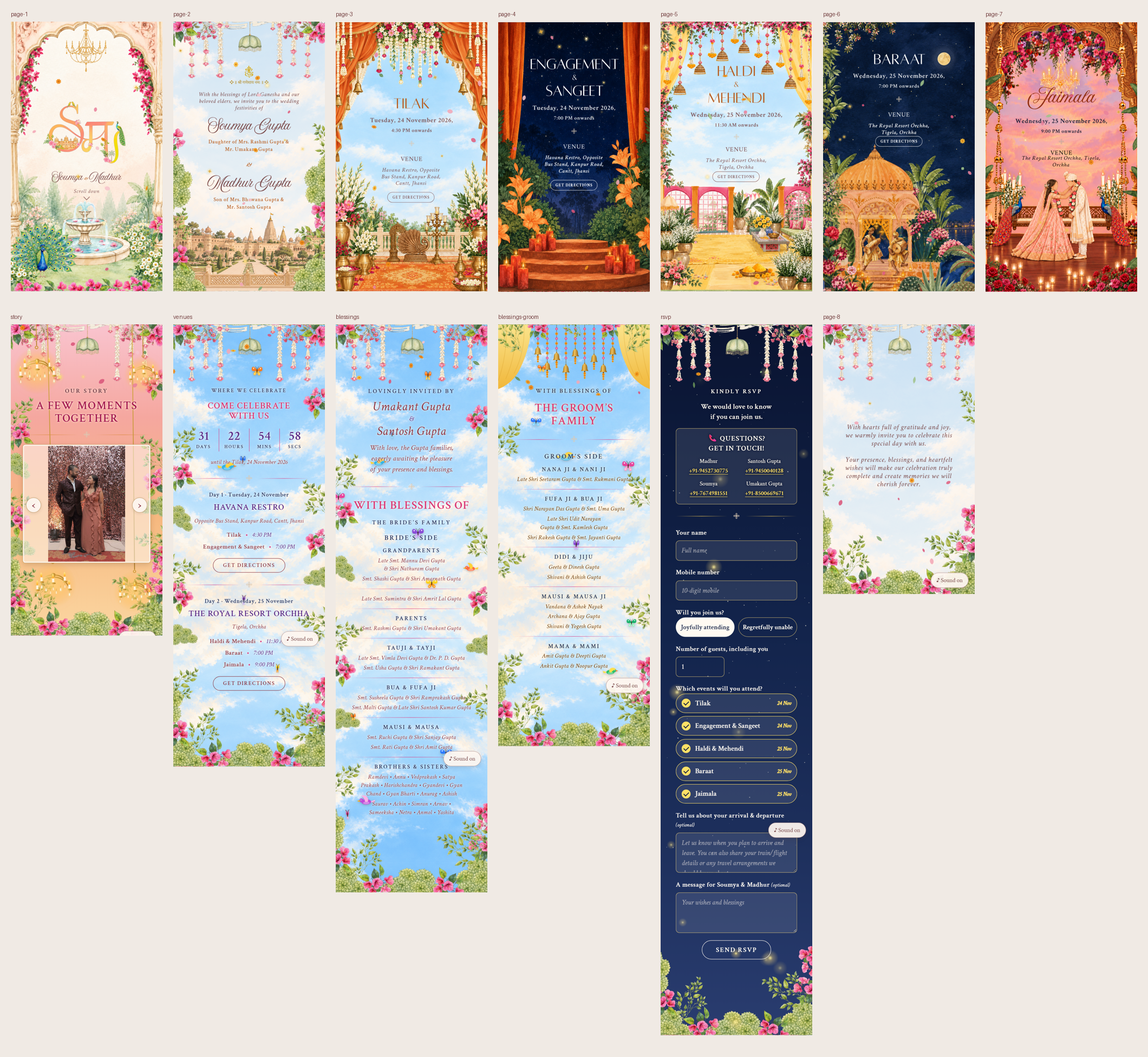
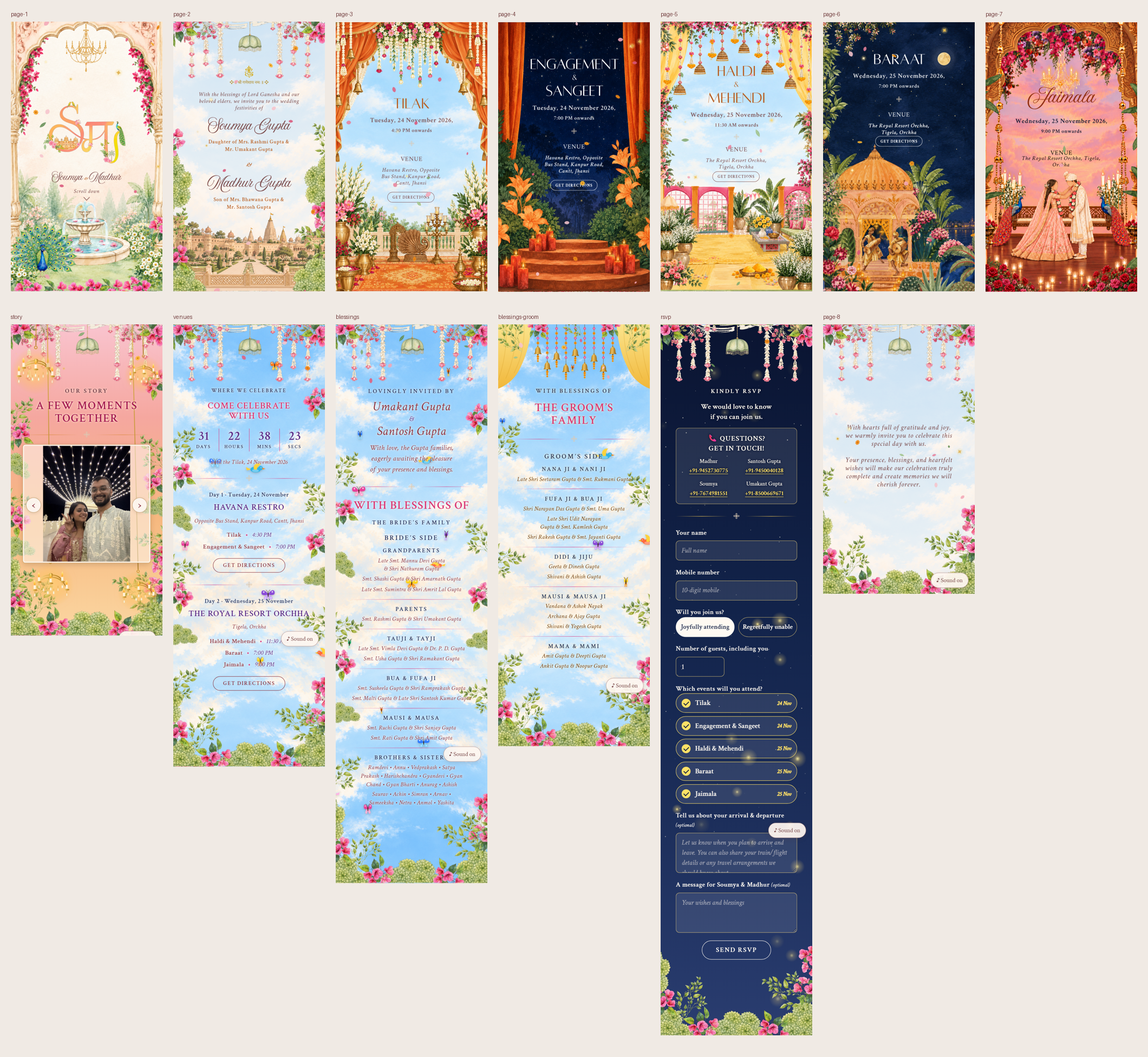
Bride's side: no divider or extra space between the grandparents and the Sumintra line

diff --git a/Website/index.html b/Website/index.html
@@ -327,6 +327,7 @@ html.locked { overflow: hidden; }
 #venues .addr { font-size: 4cqw; }
 #venues .events .n, #venues .events .t { font-size: 4.1cqw; }
 #venues .btn { font-size: 3.6cqw; padding: 2.4cqw 6.4cqw; }
+.web .rel.joined { border-bottom: 0; padding-bottom: 0; border-image: none; margin-bottom: -2.4cqw; }
 [hidden] { display: none !important; }
 </style>
 </head>
@@ -491,7 +492,7 @@ html.locked { overflow: hidden; }
   <div class="divider" aria-hidden="true"><span></span><img src="images/img-10-251x251.png" alt=""><span></span></div>
   <h2 id="bless-h">With Blessings Of</h2>
   <p class="label">The Bride’s Family</p>
-  <div class="sides"><div class="side bride"><h3 class="band">Bride’s Side</h3><dl><div class="rel"><dt>Grandparents</dt><dd>Late Smt. Mannu Devi Gupta &amp; Shri Nathuram Gupta</dd><dd>Smt. Shashi Gupta &amp; Shri Amarnath Gupta</dd></div><div class="rel"><dd>Late Smt. Sumintra &amp; Shri Amrit Lal Gupta</dd></div><div class="rel"><dt>Parents</dt><dd>Smt. Rashmi Gupta &amp; Shri Umakant Gupta</dd></div><div class="rel"><dt>Tauji &amp; Tayji</dt><dd>Late Smt. Vimla Devi Gupta &amp; Dr. P. D. Gupta</dd><dd>Smt. Usha Gupta &amp; Shri Ramakant Gupta</dd></div><div class="rel"><dt>Bua &amp; Fufa Ji</dt><dd>Smt. Susheela Gupta &amp; Shri Ramprakash Gupta</dd><dd>Smt. Malti Gupta &amp; Late Shri Santosh Kumar Gupta</dd></div><div class="rel"><dt>Mausi &amp; Mausa</dt><dd>Smt. Ruchi Gupta &amp; Shri Sanjay Gupta</dd><dd>Smt. Rati Gupta &amp; Shri Amit Gupta</dd></div><div class="rel"><dt>Brothers &amp; Sisters</dt><dd>Ramdevi • Annu • Vedprakash • Satya Prakash • Harishchandra • Gyandevi • Gyan Chand • Gyan Bharti • Anurag • Ashish</dd><dd>Saurav • Achin • Simran • Arnav • Sameeksha • Netra • Anmol • Yashita</dd></div></dl></div></div>
+  <div class="sides"><div class="side bride"><h3 class="band">Bride’s Side</h3><dl><div class="rel joined"><dt>Grandparents</dt><dd>Late Smt. Mannu Devi Gupta &amp; Shri Nathuram Gupta</dd><dd>Smt. Shashi Gupta &amp; Shri Amarnath Gupta</dd></div><div class="rel"><dd>Late Smt. Sumintra &amp; Shri Amrit Lal Gupta</dd></div><div class="rel"><dt>Parents</dt><dd>Smt. Rashmi Gupta &amp; Shri Umakant Gupta</dd></div><div class="rel"><dt>Tauji &amp; Tayji</dt><dd>Late Smt. Vimla Devi Gupta &amp; Dr. P. D. Gupta</dd><dd>Smt. Usha Gupta &amp; Shri Ramakant Gupta</dd></div><div class="rel"><dt>Bua &amp; Fufa Ji</dt><dd>Smt. Susheela Gupta &amp; Shri Ramprakash Gupta</dd><dd>Smt. Malti Gupta &amp; Late Shri Santosh Kumar Gupta</dd></div><div class="rel"><dt>Mausi &amp; Mausa</dt><dd>Smt. Ruchi Gupta &amp; Shri Sanjay Gupta</dd><dd>Smt. Rati Gupta &amp; Shri Amit Gupta</dd></div><div class="rel"><dt>Brothers &amp; Sisters</dt><dd>Ramdevi • Annu • Vedprakash • Satya Prakash • Harishchandra • Gyandevi • Gyan Chand • Gyan Bharti • Anurag • Ashish</dd><dd>Saurav • Achin • Simran • Arnav • Sameeksha • Netra • Anmol • Yashita</dd></div></dl></div></div>
 </div></div></section>
 <section class="web theme-haldi" id="blessings-groom" aria-labelledby="bless-g-h"><canvas class="petals" data-n="8" aria-hidden="true"></canvas><div class="col"><div class="sky" aria-hidden="true"><i></i><i></i><i></i><i></i></div><svg class="head" viewBox="0 0 810 380" aria-hidden="true"><defs><linearGradient id="cu" x1="0" y1="0" x2="0" y2="1"><stop offset="0" stop-color="#fbe48c"/><stop offset="1" stop-color="#f1b73a"/></linearGradient><linearGradient id="bg" x1="0" x2="1"><stop offset="0" stop-color="#a8721a"/><stop offset=".4" stop-color="#f0c15a"/><stop offset="1" stop-color="#8a5a14"/></linearGradient></defs><g id="curl"><path d="M0 0 H178 C172 92 150 168 118 232 C96 282 56 322 0 344Z" fill="url(#cu)"/><path d="M44 0 C46 100 36 200 0 300 M92 0 C96 100 84 190 40 290 M138 0 C142 96 126 180 84 262" fill="none" stroke="#c98a12" stroke-width="2" opacity=".35"/></g><use href="#curl" transform="translate(810 0) scale(-1 1)"/><line x1="212" y1="0" x2="212" y2="150" stroke="#7a4d10" stroke-width="1.6"/><circle cx="212" cy="22" r="7" fill="#e8508a"/><circle cx="212" cy="22" r="3" fill="#f7b6cc"/><circle cx="212" cy="48" r="7.5" fill="#f59a1b"/><circle cx="212" cy="48" r="3" fill="#c76a06"/><circle cx="212" cy="74" r="7" fill="#e8508a"/><circle cx="212" cy="74" r="3" fill="#f7b6cc"/><circle cx="212" cy="100" r="7.5" fill="#f59a1b"/><circle cx="212" cy="100" r="3" fill="#c76a06"/><path d="M197 150 C197 128 204 120 212 120 C220 120 227 128 227 150 L232 159 H192Z" fill="url(#bg)"/><path d="M203 126 Q201 142 200 156 M221 126 Q223 142 224 156" fill="none" stroke="#7a4d10" stroke-width="1.4" opacity=".6"/><circle cx="212" cy="118" r="3.4" fill="#b9801f"/><circle cx="212" cy="162" r="3.6" fill="#7a4d10"/><circle cx="212" cy="172" r="7" fill="#f59a1b"/><circle cx="212" cy="172" r="2.6" fill="#c76a06"/><circle cx="212" cy="184" r="6" fill="#f59a1b"/><circle cx="212" cy="184" r="2.1" fill="#c76a06"/><circle cx="212" cy="196" r="5" fill="#f59a1b"/><circle cx="212" cy="196" r="1.6" fill="#c76a06"/><line x1="262" y1="0" x2="262" y2="232" stroke="#7a4d10" stroke-width="1.6"/><circle cx="262" cy="22" r="7" fill="#e8508a"/><circle cx="262" cy="22" r="3" fill="#f7b6cc"/><circle cx="262" cy="48" r="7.5" fill="#f59a1b"/><circle cx="262" cy="48" r="3" fill="#c76a06"/><circle cx="262" cy="74" r="7" fill="#e8508a"/><circle cx="262" cy="74" r="3" fill="#f7b6cc"/><circle cx="262" cy="100" r="7.5" fill="#f59a1b"/><circle cx="262" cy="100" r="3" fill="#c76a06"/><circle cx="262" cy="126" r="7" fill="#e8508a"/><circle cx="262" cy="126" r="3" fill="#f7b6cc"/><circle cx="262" cy="152" r="7.5" fill="#f59a1b"/><circle cx="262" cy="152" r="3" fill="#c76a06"/><circle cx="262" cy="178" r="7" fill="#e8508a"/><circle cx="262" cy="178" r="3" fill="#f7b6cc"/><path d="M247 232 C247 210 254 202 262 202 C270 202 277 210 277 232 L282 241 H242Z" fill="url(#bg)"/><path d="M253 208 Q251 224 250 238 M271 208 Q273 224 274 238" fill="none" stroke="#7a4d10" stroke-width="1.4" opacity=".6"/><circle cx="262" cy="200" r="3.4" fill="#b9801f"/><circle cx="262" cy="244" r="3.6" fill="#7a4d10"/><circle cx="262" cy="254" r="7" fill="#f59a1b"/><circle cx="262" cy="254" r="2.6" fill="#c76a06"/><circle cx="262" cy="266" r="6" fill="#f59a1b"/><circle cx="262" cy="266" r="2.1" fill="#c76a06"/><circle cx="262" cy="278" r="5" fill="#f59a1b"/><circle cx="262" cy="278" r="1.6" fill="#c76a06"/><line x1="312" y1="0" x2="312" y2="180" stroke="#7a4d10" stroke-width="1.6"/><circle cx="312" cy="22" r="7" fill="#e8508a"/><circle cx="312" cy="22" r="3" fill="#f7b6cc"/><circle cx="312" cy="48" r="7.5" fill="#f59a1b"/><circle cx="312" cy="48" r="3" fill="#c76a06"/><circle cx="312" cy="74" r="7" fill="#e8508a"/><circle cx="312" cy="74" r="3" fill="#f7b6cc"/><circle cx="312" cy="100" r="7.5" fill="#f59a1b"/><circle cx="312" cy="100" r="3" fill="#c76a06"/><circle cx="312" cy="126" r="7" fill="#e8508a"/><circle cx="312" cy="126" r="3" fill="#f7b6cc"/><path d="M297 180 C297 158 304 150 312 150 C320 150 327 158 327 180 L332 189 H292Z" fill="url(#bg)"/><path d="M303 156 Q301 172 300 186 M321 156 Q323 172 324 186" fill="none" stroke="#7a4d10" stroke-width="1.4" opacity=".6"/><circle cx="312" cy="148" r="3.4" fill="#b9801f"/><circle cx="312" cy="192" r="3.6" fill="#7a4d10"/><circle cx="312" cy="202" r="7" fill="#f59a1b"/><circle cx="312" cy="202" r="2.6" fill="#c76a06"/><circle cx="312" cy="214" r="6" fill="#f59a1b"/><circle cx="312" cy="214" r="2.1" fill="#c76a06"/><circle cx="312" cy="226" r="5" fill="#f59a1b"/><circle cx="312" cy="226" r="1.6" fill="#c76a06"/><line x1="362" y1="0" x2="362" y2="246" stroke="#7a4d10" stroke-width="1.6"/><circle cx="362" cy="22" r="7" fill="#e8508a"/><circle cx="362" cy="22" r="3" fill="#f7b6cc"/><circle cx="362" cy="48" r="7.5" fill="#f59a1b"/><circle cx="362" cy="48" r="3" fill="#c76a06"/><circle cx="362" cy="74" r="7" fill="#e8508a"/><circle cx="362" cy="74" r="3" fill="#f7b6cc"/><circle cx="362" cy="100" r="7.5" fill="#f59a1b"/><circle cx="362" cy="100" r="3" fill="#c76a06"/><circle cx="362" cy="126" r="7" fill="#e8508a"/><circle cx="362" cy="126" r="3" fill="#f7b6cc"/><circle cx="362" cy="152" r="7.5" fill="#f59a1b"/><circle cx="362" cy="152" r="3" fill="#c76a06"/><circle cx="362" cy="178" r="7" fill="#e8508a"/><circle cx="362" cy="178" r="3" fill="#f7b6cc"/><path d="M347 246 C347 224 354 216 362 216 C370 216 377 224 377 246 L382 255 H342Z" fill="url(#bg)"/><path d="M353 222 Q351 238 350 252 M371 222 Q373 238 374 252" fill="none" stroke="#7a4d10" stroke-width="1.4" opacity=".6"/><circle cx="362" cy="214" r="3.4" fill="#b9801f"/><circle cx="362" cy="258" r="3.6" fill="#7a4d10"/><circle cx="362" cy="268" r="7" fill="#f59a1b"/><circle cx="362" cy="268" r="2.6" fill="#c76a06"/><circle cx="362" cy="280" r="6" fill="#f59a1b"/><circle cx="362" cy="280" r="2.1" fill="#c76a06"/><circle cx="362" cy="292" r="5" fill="#f59a1b"/><circle cx="362" cy="292" r="1.6" fill="#c76a06"/><line x1="412" y1="0" x2="412" y2="160" stroke="#7a4d10" stroke-width="1.6"/><circle cx="412" cy="22" r="7" fill="#e8508a"/><circle cx="412" cy="22" r="3" fill="#f7b6cc"/><circle cx="412" cy="48" r="7.5" fill="#f59a1b"/><circle cx="412" cy="48" r="3" fill="#c76a06"/><circle cx="412" cy="74" r="7" fill="#e8508a"/><circle cx="412" cy="74" r="3" fill="#f7b6cc"/><circle cx="412" cy="100" r="7.5" fill="#f59a1b"/><circle cx="412" cy="100" r="3" fill="#c76a06"/><path d="M397 160 C397 138 404 130 412 130 C420 130 427 138 427 160 L432 169 H392Z" fill="url(#bg)"/><path d="M403 136 Q401 152 400 166 M421 136 Q423 152 424 166" fill="none" stroke="#7a4d10" stroke-width="1.4" opacity=".6"/><circle cx="412" cy="128" r="3.4" fill="#b9801f"/><circle cx="412" cy="172" r="3.6" fill="#7a4d10"/><circle cx="412" cy="182" r="7" fill="#f59a1b"/><circle cx="412" cy="182" r="2.6" fill="#c76a06"/><circle cx="412" cy="194" r="6" fill="#f59a1b"/><circle cx="412" cy="194" r="2.1" fill="#c76a06"/><circle cx="412" cy="206" r="5" fill="#f59a1b"/><circle cx="412" cy="206" r="1.6" fill="#c76a06"/><line x1="462" y1="0" x2="462" y2="238" stroke="#7a4d10" stroke-width="1.6"/><circle cx="462" cy="22" r="7" fill="#e8508a"/><circle cx="462" cy="22" r="3" fill="#f7b6cc"/><circle cx="462" cy="48" r="7.5" fill="#f59a1b"/><circle cx="462" cy="48" r="3" fill="#c76a06"/><circle cx="462" cy="74" r="7" fill="#e8508a"/><circle cx="462" cy="74" r="3" fill="#f7b6cc"/><circle cx="462" cy="100" r="7.5" fill="#f59a1b"/><circle cx="462" cy="100" r="3" fill="#c76a06"/><circle cx="462" cy="126" r="7" fill="#e8508a"/><circle cx="462" cy="126" r="3" fill="#f7b6cc"/><circle cx="462" cy="152" r="7.5" fill="#f59a1b"/><circle cx="462" cy="152" r="3" fill="#c76a06"/><circle cx="462" cy="178" r="7" fill="#e8508a"/><circle cx="462" cy="178" r="3" fill="#f7b6cc"/><path d="M447 238 C447 216 454 208 462 208 C470 208 477 216 477 238 L482 247 H442Z" fill="url(#bg)"/><path d="M453 214 Q451 230 450 244 M471 214 Q473 230 474 244" fill="none" stroke="#7a4d10" stroke-width="1.4" opacity=".6"/><circle cx="462" cy="206" r="3.4" fill="#b9801f"/><circle cx="462" cy="250" r="3.6" fill="#7a4d10"/><circle cx="462" cy="260" r="7" fill="#f59a1b"/><circle cx="462" cy="260" r="2.6" fill="#c76a06"/><circle cx="462" cy="272" r="6" fill="#f59a1b"/><circle cx="462" cy="272" r="2.1" fill="#c76a06"/><circle cx="462" cy="284" r="5" fill="#f59a1b"/><circle cx="462" cy="284" r="1.6" fill="#c76a06"/><line x1="512" y1="0" x2="512" y2="190" stroke="#7a4d10" stroke-width="1.6"/><circle cx="512" cy="22" r="7" fill="#e8508a"/><circle cx="512" cy="22" r="3" fill="#f7b6cc"/><circle cx="512" cy="48" r="7.5" fill="#f59a1b"/><circle cx="512" cy="48" r="3" fill="#c76a06"/><circle cx="512" cy="74" r="7" fill="#e8508a"/><circle cx="512" cy="74" r="3" fill="#f7b6cc"/><circle cx="512" cy="100" r="7.5" fill="#f59a1b"/><circle cx="512" cy="100" r="3" fill="#c76a06"/><circle cx="512" cy="126" r="7" fill="#e8508a"/><circle cx="512" cy="126" r="3" fill="#f7b6cc"/><path d="M497 190 C497 168 504 160 512 160 C520 160 527 168 527 190 L532 199 H492Z" fill="url(#bg)"/><path d="M503 166 Q501 182 500 196 M521 166 Q523 182 524 196" fill="none" stroke="#7a4d10" stroke-width="1.4" opacity=".6"/><circle cx="512" cy="158" r="3.4" fill="#b9801f"/><circle cx="512" cy="202" r="3.6" fill="#7a4d10"/><circle cx="512" cy="212" r="7" fill="#f59a1b"/><circle cx="512" cy="212" r="2.6" fill="#c76a06"/><circle cx="512" cy="224" r="6" fill="#f59a1b"/><circle cx="512" cy="224" r="2.1" fill="#c76a06"/><circle cx="512" cy="236" r="5" fill="#f59a1b"/><circle cx="512" cy="236" r="1.6" fill="#c76a06"/><line x1="562" y1="0" x2="562" y2="244" stroke="#7a4d10" stroke-width="1.6"/><circle cx="562" cy="22" r="7" fill="#e8508a"/><circle cx="562" cy="22" r="3" fill="#f7b6cc"/><circle cx="562" cy="48" r="7.5" fill="#f59a1b"/><circle cx="562" cy="48" r="3" fill="#c76a06"/><circle cx="562" cy="74" r="7" fill="#e8508a"/><circle cx="562" cy="74" r="3" fill="#f7b6cc"/><circle cx="562" cy="100" r="7.5" fill="#f59a1b"/><circle cx="562" cy="100" r="3" fill="#c76a06"/><circle cx="562" cy="126" r="7" fill="#e8508a"/><circle cx="562" cy="126" r="3" fill="#f7b6cc"/><circle cx="562" cy="152" r="7.5" fill="#f59a1b"/><circle cx="562" cy="152" r="3" fill="#c76a06"/><circle cx="562" cy="178" r="7" fill="#e8508a"/><circle cx="562" cy="178" r="3" fill="#f7b6cc"/><path d="M547 244 C547 222 554 214 562 214 C570 214 577 222 577 244 L582 253 H542Z" fill="url(#bg)"/><path d="M553 220 Q551 236 550 250 M571 220 Q573 236 574 250" fill="none" stroke="#7a4d10" stroke-width="1.4" opacity=".6"/><circle cx="562" cy="212" r="3.4" fill="#b9801f"/><circle cx="562" cy="256" r="3.6" fill="#7a4d10"/><circle cx="562" cy="266" r="7" fill="#f59a1b"/><circle cx="562" cy="266" r="2.6" fill="#c76a06"/><circle cx="562" cy="278" r="6" fill="#f59a1b"/><circle cx="562" cy="278" r="2.1" fill="#c76a06"/><circle cx="562" cy="290" r="5" fill="#f59a1b"/><circle cx="562" cy="290" r="1.6" fill="#c76a06"/><line x1="612" y1="0" x2="612" y2="150" stroke="#7a4d10" stroke-width="1.6"/><circle cx="612" cy="22" r="7" fill="#e8508a"/><circle cx="612" cy="22" r="3" fill="#f7b6cc"/><circle cx="612" cy="48" r="7.5" fill="#f59a1b"/><circle cx="612" cy="48" r="3" fill="#c76a06"/><circle cx="612" cy="74" r="7" fill="#e8508a"/><circle cx="612" cy="74" r="3" fill="#f7b6cc"/><circle cx="612" cy="100" r="7.5" fill="#f59a1b"/><circle cx="612" cy="100" r="3" fill="#c76a06"/><path d="M597 150 C597 128 604 120 612 120 C620 120 627 128 627 150 L632 159 H592Z" fill="url(#bg)"/><path d="M603 126 Q601 142 600 156 M621 126 Q623 142 624 156" fill="none" stroke="#7a4d10" stroke-width="1.4" opacity=".6"/><circle cx="612" cy="118" r="3.4" fill="#b9801f"/><circle cx="612" cy="162" r="3.6" fill="#7a4d10"/><circle cx="612" cy="172" r="7" fill="#f59a1b"/><circle cx="612" cy="172" r="2.6" fill="#c76a06"/><circle cx="612" cy="184" r="6" fill="#f59a1b"/><circle cx="612" cy="184" r="2.1" fill="#c76a06"/><circle cx="612" cy="196" r="5" fill="#f59a1b"/><circle cx="612" cy="196" r="1.6" fill="#c76a06"/><image href="images/img-06-442x570.png" width="1" height="1" preserveAspectRatio="none" transform="matrix(170,0,0,219,-30,-64)"/><image href="images/img-06-442x570.png" width="1" height="1" preserveAspectRatio="none" transform="matrix(-170,0,0,219,840,-64)"/><image href="images/img-06-442x570.png" width="1" height="1" preserveAspectRatio="none" transform="matrix(130,0,0,168,330,-92)"/><image href="images/img-07-413x413.png" width="1" height="1" preserveAspectRatio="none" transform="matrix(120,0,0,120,150,-36)"/><image href="images/img-07-413x413.png" width="1" height="1" preserveAspectRatio="none" transform="matrix(-120,0,0,120,660,-40)"/></svg><svg class="foot" viewBox="0 780 810 660" aria-hidden="true"><image href="images/img-05-739x532.png" width="1" height="1" preserveAspectRatio="none" transform="matrix(-178.3732,395.1016,-284.3638,-128.3793,156.9829,997.759)"/><image href="images/img-05-739x532.png" width="1" height="1" preserveAspectRatio="none" transform="matrix(394.2313,-180.2884,129.7578,283.7374,523.7259,1327.6056)"/><image href="images/img-05-739x532.png" width="1" height="1" preserveAspectRatio="none" transform="matrix(406.8389,149.681,-107.7289,292.8114,-122.3521,1194.4316)"/><image href="images/img-06-442x570.png" width="1" height="1" preserveAspectRatio="none" transform="matrix(175.0465,-137.7545,177.643,225.7333,502.927,1167.0293)"/><image href="images/img-07-413x413.png" width="1" height="1" preserveAspectRatio="none" transform="matrix(-81.6998,-164.588,164.588,-81.6998,779.6677,1162.1674)"/><image href="images/img-07-413x413.png" width="1" height="1" preserveAspectRatio="none" transform="matrix(176.4401,-51.3122,51.3122,176.4401,679.4113,1139.4545)"/><image href="images/img-07-413x413.png" width="1" height="1" preserveAspectRatio="none" transform="matrix(179.3428,-40.0028,40.0028,179.3428,-109.5525,1200.7655)"/><image href="images/img-06-442x570.png" width="1" height="1" preserveAspectRatio="none" transform="matrix(112.0505,139.9115,-179.719,143.931,190.9764,1095.7351)"/><image href="images/img-05-739x532.png" width="1" height="1" preserveAspectRatio="none" transform="matrix(406.8389,149.681,-107.7289,292.8114,292.5477,1210.9304)"/><image href="images/img-07-413x413.png" width="1" height="1" preserveAspectRatio="none" transform="matrix(-153.8557,100.4614,-100.4614,-153.8557,350.4998,1406.5757)"/><image href="images/img-07-413x413.png" width="1" height="1" preserveAspectRatio="none" transform="matrix(-180.976,-31.8084,31.8084,-180.976,683.6942,1506.9229)"/></svg><img class="vine va" src="images/img-06-442x570.png" alt="" aria-hidden="true"><img class="vine vb" src="images/img-06-442x570.png" alt="" aria-hidden="true"><img class="vine vc" src="images/img-06-442x570.png" alt="" aria-hidden="true"><img class="vine vd" src="images/img-06-442x570.png" alt="" aria-hidden="true"><img class="vine ve" src="images/img-06-442x570.png" alt="" aria-hidden="true"><img class="vine vf" src="images/img-06-442x570.png" alt="" aria-hidden="true"><div class="crit b" style="top:8.4%;--t:34s;--d:-25s;--w:7cqw"><div class="bob" style="--b:2.3s"><svg viewBox="0 0 60 50" style="--f:0.34s" aria-hidden="true"><g class="wl"><path d="M30 24 C14 2 2 8 4 22 C5 30 20 30 30 26Z" fill="#ff7a1a"/><path d="M30 26 C18 30 8 40 16 46 C24 50 30 38 30 28Z" fill="#ffc23a"/><circle cx="13" cy="16" r="3" fill="#fff" opacity=".8"/><circle cx="19" cy="40" r="2.2" fill="#fff" opacity=".8"/></g><g class="wr"><path d="M30 24 C46 2 58 8 56 22 C55 30 40 30 30 26Z" fill="#ff7a1a"/><path d="M30 26 C42 30 52 40 44 46 C36 50 30 38 30 28Z" fill="#ffc23a"/><circle cx="47" cy="16" r="3" fill="#fff" opacity=".8"/><circle cx="41" cy="40" r="2.2" fill="#fff" opacity=".8"/></g><ellipse cx="30" cy="27" rx="1.9" ry="9" fill="#3a2418"/><path d="M29 18 Q26 10 22 8 M31 18 Q34 10 38 8" fill="none" stroke="#3a2418" stroke-width="1.1" stroke-linecap="round"/></svg></div></div><div class="crit b rev" style="top:21.0%;--t:31s;--d:-32s;--w:8cqw"><div class="bob" style="--b:2.3s"><svg viewBox="0 0 60 50" style="--f:0.32s" aria-hidden="true"><g class="wl"><path d="M30 24 C14 2 2 8 4 22 C5 30 20 30 30 26Z" fill="#2f7cff"/><path d="M30 26 C18 30 8 40 16 46 C24 50 30 38 30 28Z" fill="#7fd1ff"/><circle cx="13" cy="16" r="3" fill="#fff" opacity=".8"/><circle cx="19" cy="40" r="2.2" fill="#fff" opacity=".8"/></g><g class="wr"><path d="M30 24 C46 2 58 8 56 22 C55 30 40 30 30 26Z" fill="#2f7cff"/><path d="M30 26 C42 30 52 40 44 46 C36 50 30 38 30 28Z" fill="#7fd1ff"/><circle cx="47" cy="16" r="3" fill="#fff" opacity=".8"/><circle cx="41" cy="40" r="2.2" fill="#fff" opacity=".8"/></g><ellipse cx="30" cy="27" rx="1.9" ry="9" fill="#3a2418"/><path d="M29 18 Q26 10 22 8 M31 18 Q34 10 38 8" fill="none" stroke="#3a2418" stroke-width="1.1" stroke-linecap="round"/></svg></div></div><div class="crit b" style="top:31.1%;--t:32s;--d:-35s;--w:10cqw"><div class="bob" style="--b:2.3s"><svg viewBox="0 0 60 50" style="--f:0.34s" aria-hidden="true"><g class="wl"><path d="M30 24 C14 2 2 8 4 22 C5 30 20 30 30 26Z" fill="#e8429b"/><path d="M30 26 C18 30 8 40 16 46 C24 50 30 38 30 28Z" fill="#ffa6d0"/><circle cx="13" cy="16" r="3" fill="#fff" opacity=".8"/><circle cx="19" cy="40" r="2.2" fill="#fff" opacity=".8"/></g><g class="wr"><path d="M30 24 C46 2 58 8 56 22 C55 30 40 30 30 26Z" fill="#e8429b"/><path d="M30 26 C42 30 52 40 44 46 C36 50 30 38 30 28Z" fill="#ffa6d0"/><circle cx="47" cy="16" r="3" fill="#fff" opacity=".8"/><circle cx="41" cy="40" r="2.2" fill="#fff" opacity=".8"/></g><ellipse cx="30" cy="27" rx="1.9" ry="9" fill="#3a2418"/><path d="M29 18 Q26 10 22 8 M31 18 Q34 10 38 8" fill="none" stroke="#3a2418" stroke-width="1.1" stroke-linecap="round"/></svg></div></div><div class="crit b" style="top:49.8%;--t:48s;--d:-3s;--w:10cqw"><div class="bob" style="--b:2.3s"><svg viewBox="0 0 60 50" style="--f:0.29s" aria-hidden="true"><g class="wl"><path d="M30 24 C14 2 2 8 4 22 C5 30 20 30 30 26Z" fill="#8a4bd8"/><path d="M30 26 C18 30 8 40 16 46 C24 50 30 38 30 28Z" fill="#c9a4ff"/><circle cx="13" cy="16" r="3" fill="#fff" opacity=".8"/><circle cx="19" cy="40" r="2.2" fill="#fff" opacity=".8"/></g><g class="wr"><path d="M30 24 C46 2 58 8 56 22 C55 30 40 30 30 26Z" fill="#8a4bd8"/><path d="M30 26 C42 30 52 40 44 46 C36 50 30 38 30 28Z" fill="#c9a4ff"/><circle cx="47" cy="16" r="3" fill="#fff" opacity=".8"/><circle cx="41" cy="40" r="2.2" fill="#fff" opacity=".8"/></g><ellipse cx="30" cy="27" rx="1.9" ry="9" fill="#3a2418"/><path d="M29 18 Q26 10 22 8 M31 18 Q34 10 38 8" fill="none" stroke="#3a2418" stroke-width="1.1" stroke-linecap="round"/></svg></div></div><div class="crit b rev" style="top:59.2%;--t:34s;--d:-18s;--w:10cqw"><div class="bob" style="--b:2.4s"><svg viewBox="0 0 60 50" style="--f:0.28s" aria-hidden="true"><g class="wl"><path d="M30 24 C14 2 2 8 4 22 C5 30 20 30 30 26Z" fill="#ffd21a"/><path d="M30 26 C18 30 8 40 16 46 C24 50 30 38 30 28Z" fill="#ff9a1a"/><circle cx="13" cy="16" r="3" fill="#fff" opacity=".8"/><circle cx="19" cy="40" r="2.2" fill="#fff" opacity=".8"/></g><g class="wr"><path d="M30 24 C46 2 58 8 56 22 C55 30 40 30 30 26Z" fill="#ffd21a"/><path d="M30 26 C42 30 52 40 44 46 C36 50 30 38 30 28Z" fill="#ff9a1a"/><circle cx="47" cy="16" r="3" fill="#fff" opacity=".8"/><circle cx="41" cy="40" r="2.2" fill="#fff" opacity=".8"/></g><ellipse cx="30" cy="27" rx="1.9" ry="9" fill="#3a2418"/><path d="M29 18 Q26 10 22 8 M31 18 Q34 10 38 8" fill="none" stroke="#3a2418" stroke-width="1.1" stroke-linecap="round"/></svg></div></div><div class="crit b" style="top:69.7%;--t:35s;--d:-6s;--w:8cqw"><div class="bob" style="--b:2.7s"><svg viewBox="0 0 60 50" style="--f:0.34s" aria-hidden="true"><g class="wl"><path d="M30 24 C14 2 2 8 4 22 C5 30 20 30 30 26Z" fill="#17b26a"/><path d="M30 26 C18 30 8 40 16 46 C24 50 30 38 30 28Z" fill="#9cf0c2"/><circle cx="13" cy="16" r="3" fill="#fff" opacity=".8"/><circle cx="19" cy="40" r="2.2" fill="#fff" opacity=".8"/></g><g class="wr"><path d="M30 24 C46 2 58 8 56 22 C55 30 40 30 30 26Z" fill="#17b26a"/><path d="M30 26 C42 30 52 40 44 46 C36 50 30 38 30 28Z" fill="#9cf0c2"/><circle cx="47" cy="16" r="3" fill="#fff" opacity=".8"/><circle cx="41" cy="40" r="2.2" fill="#fff" opacity=".8"/></g><ellipse cx="30" cy="27" rx="1.9" ry="9" fill="#3a2418"/><path d="M29 18 Q26 10 22 8 M31 18 Q34 10 38 8" fill="none" stroke="#3a2418" stroke-width="1.1" stroke-linecap="round"/></svg></div></div><div class="crit b" style="top:80.2%;--t:31s;--d:-39s;--w:8cqw"><div class="bob" style="--b:2.9s"><svg viewBox="0 0 60 50" style="--f:0.33s" aria-hidden="true"><g class="wl"><path d="M30 24 C14 2 2 8 4 22 C5 30 20 30 30 26Z" fill="#ff7a1a"/><path d="M30 26 C18 30 8 40 16 46 C24 50 30 38 30 28Z" fill="#ffc23a"/><circle cx="13" cy="16" r="3" fill="#fff" opacity=".8"/><circle cx="19" cy="40" r="2.2" fill="#fff" opacity=".8"/></g><g class="wr"><path d="M30 24 C46 2 58 8 56 22 C55 30 40 30 30 26Z" fill="#ff7a1a"/><path d="M30 26 C42 30 52 40 44 46 C36 50 30 38 30 28Z" fill="#ffc23a"/><circle cx="47" cy="16" r="3" fill="#fff" opacity=".8"/><circle cx="41" cy="40" r="2.2" fill="#fff" opacity=".8"/></g><ellipse cx="30" cy="27" rx="1.9" ry="9" fill="#3a2418"/><path d="M29 18 Q26 10 22 8 M31 18 Q34 10 38 8" fill="none" stroke="#3a2418" stroke-width="1.1" stroke-linecap="round"/></svg></div></div><div class="crit k" style="top:29.0%;--t:27s;--d:-18s;--w:15cqw"><div class="bob" style="--b:1.9s"><svg viewBox="0 0 80 50" style="--f:0.24s" aria-hidden="true"><path d="M24 28 L4 21 L8 32Z" fill="#ffd23a"/><ellipse cx="38" cy="28" rx="18" ry="10" fill="#2fb4e8"/><ellipse cx="38" cy="32" rx="12" ry="5" fill="#fff" opacity=".35"/><circle cx="56" cy="22" r="7.5" fill="#2fb4e8"/><path d="M62 21 L73 24 L62 27Z" fill="#ff8a1a"/><circle cx="58" cy="20.5" r="1.9" fill="#fff"/><circle cx="58.6" cy="20.5" r=".9" fill="#222"/><path class="bw" d="M32 27 C28 8 46 1 58 8 C48 14 44 22 42 29Z" fill="#ffd23a"/></svg></div></div><div class="crit k rev" style="top:49.3%;--t:23s;--d:-2s;--w:14cqw"><div class="bob" style="--b:2.0s"><svg viewBox="0 0 80 50" style="--f:0.31s" aria-hidden="true"><path d="M24 28 L4 21 L8 32Z" fill="#ffd23a"/><ellipse cx="38" cy="28" rx="18" ry="10" fill="#ff6a3d"/><ellipse cx="38" cy="32" rx="12" ry="5" fill="#fff" opacity=".35"/><circle cx="56" cy="22" r="7.5" fill="#ff6a3d"/><path d="M62 21 L73 24 L62 27Z" fill="#ffb000"/><circle cx="58" cy="20.5" r="1.9" fill="#fff"/><circle cx="58.6" cy="20.5" r=".9" fill="#222"/><path class="bw" d="M32 27 C28 8 46 1 58 8 C48 14 44 22 42 29Z" fill="#ffd23a"/></svg></div></div><div class="crit k" style="top:81.8%;--t:24s;--d:-19s;--w:12cqw"><div class="bob" style="--b:1.7s"><svg viewBox="0 0 80 50" style="--f:0.26s" aria-hidden="true"><path d="M24 28 L4 21 L8 32Z" fill="#ffe04a"/><ellipse cx="38" cy="28" rx="18" ry="10" fill="#2bc16b"/><ellipse cx="38" cy="32" rx="12" ry="5" fill="#fff" opacity=".35"/><circle cx="56" cy="22" r="7.5" fill="#2bc16b"/><path d="M62 21 L73 24 L62 27Z" fill="#ff7a1a"/><circle cx="58" cy="20.5" r="1.9" fill="#fff"/><circle cx="58.6" cy="20.5" r=".9" fill="#222"/><path class="bw" d="M32 27 C28 8 46 1 58 8 C48 14 44 22 42 29Z" fill="#ffe04a"/></svg></div></div><div class="frame">
   <p class="label">With blessings of</p>

diff --git a/Source/pipeline/build.py b/Source/pipeline/build.py
@@ -566,8 +566,9 @@ groom = [("Nana Ji & Nani Ji", ["Late Shri Seetaram Gupta & Smt. Rukmani Gupta"]
          ("Mama & Mami", ["Amit Gupta & Deepti Gupta", "Ankit Gupta & Noopur Gupta"])]
 def side(title, rows, cls):
     out = f'<div class="side {cls}"><h3 class="band">{title}</h3><dl>'
-    for k, vs in rows:
-        out += '<div class="rel">' + (f'<dt>{html.escape(k)}</dt>' if k else '') + "".join(f'<dd>{html.escape(v)}</dd>' for v in vs) + '</div>'
+    for n, (k, vs) in enumerate(rows):
+        joined = n + 1 < len(rows) and not rows[n + 1][0]       # the next line continues this group: no divider between them
+        out += '<div class="rel' + (' joined' if joined else '') + '">' + (f'<dt>{html.escape(k)}</dt>' if k else '') + "".join(f'<dd>{html.escape(v)}</dd>' for v in vs) + '</div>'
     return out + '</dl></div>'
 GUEST_OPTS = "".join(f'<option value="{i}">{i}</option>' for i in range(1, 11))
 def evcheck(i, val, label, date):
@@ -1115,6 +1116,7 @@ html.locked {{ overflow: hidden; }}
 #venues .addr {{ font-size: 4cqw; }}
 #venues .events .n, #venues .events .t {{ font-size: 4.1cqw; }}
 #venues .btn {{ font-size: 3.6cqw; padding: 2.4cqw 6.4cqw; }}
+.web .rel.joined {{ border-bottom: 0; padding-bottom: 0; border-image: none; margin-bottom: -2.4cqw; }}
 [hidden] {{ display: none !important; }}
 </style>
 </head>
